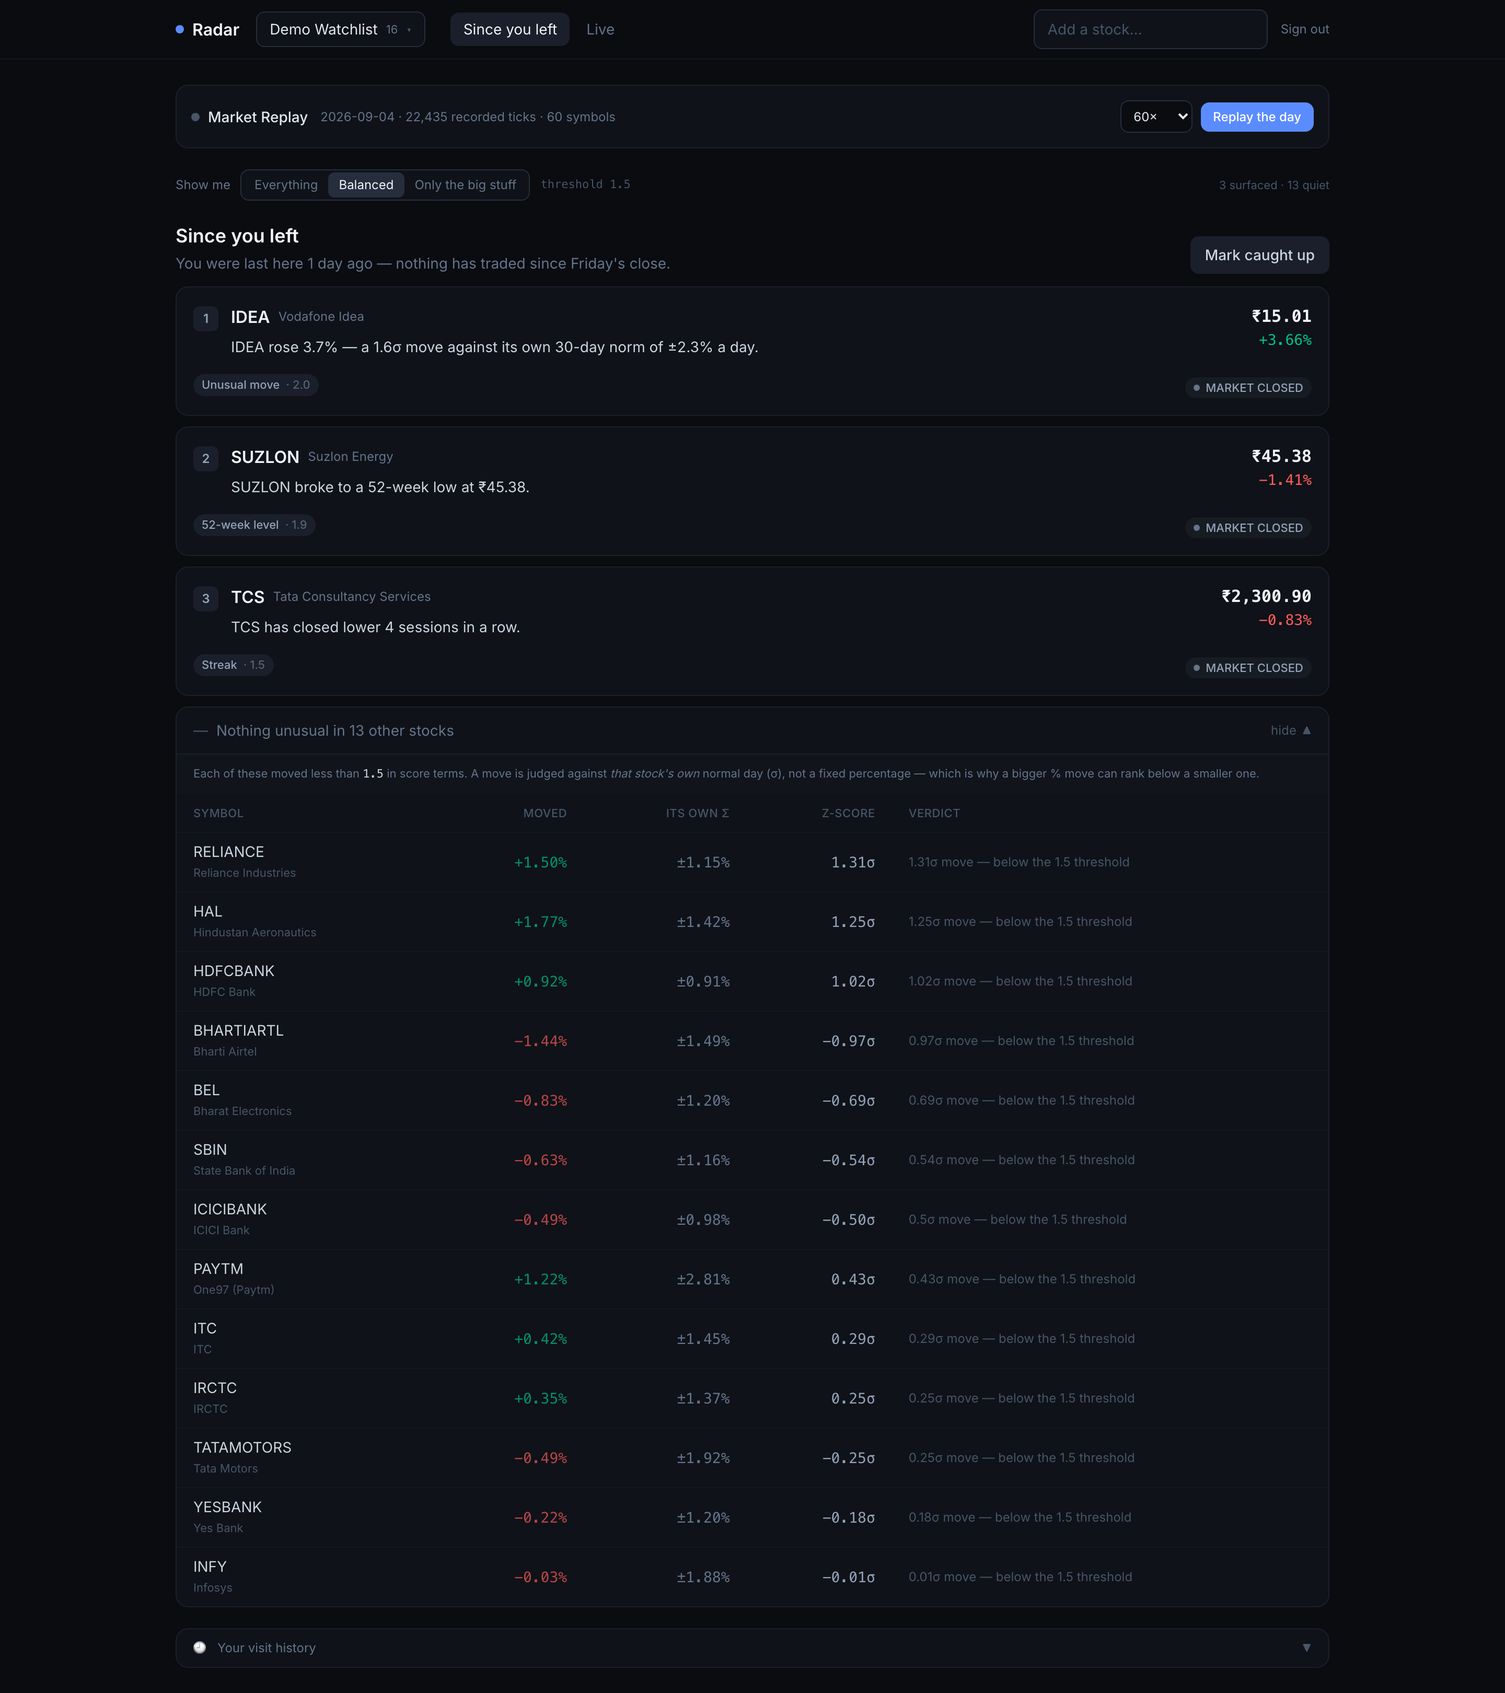
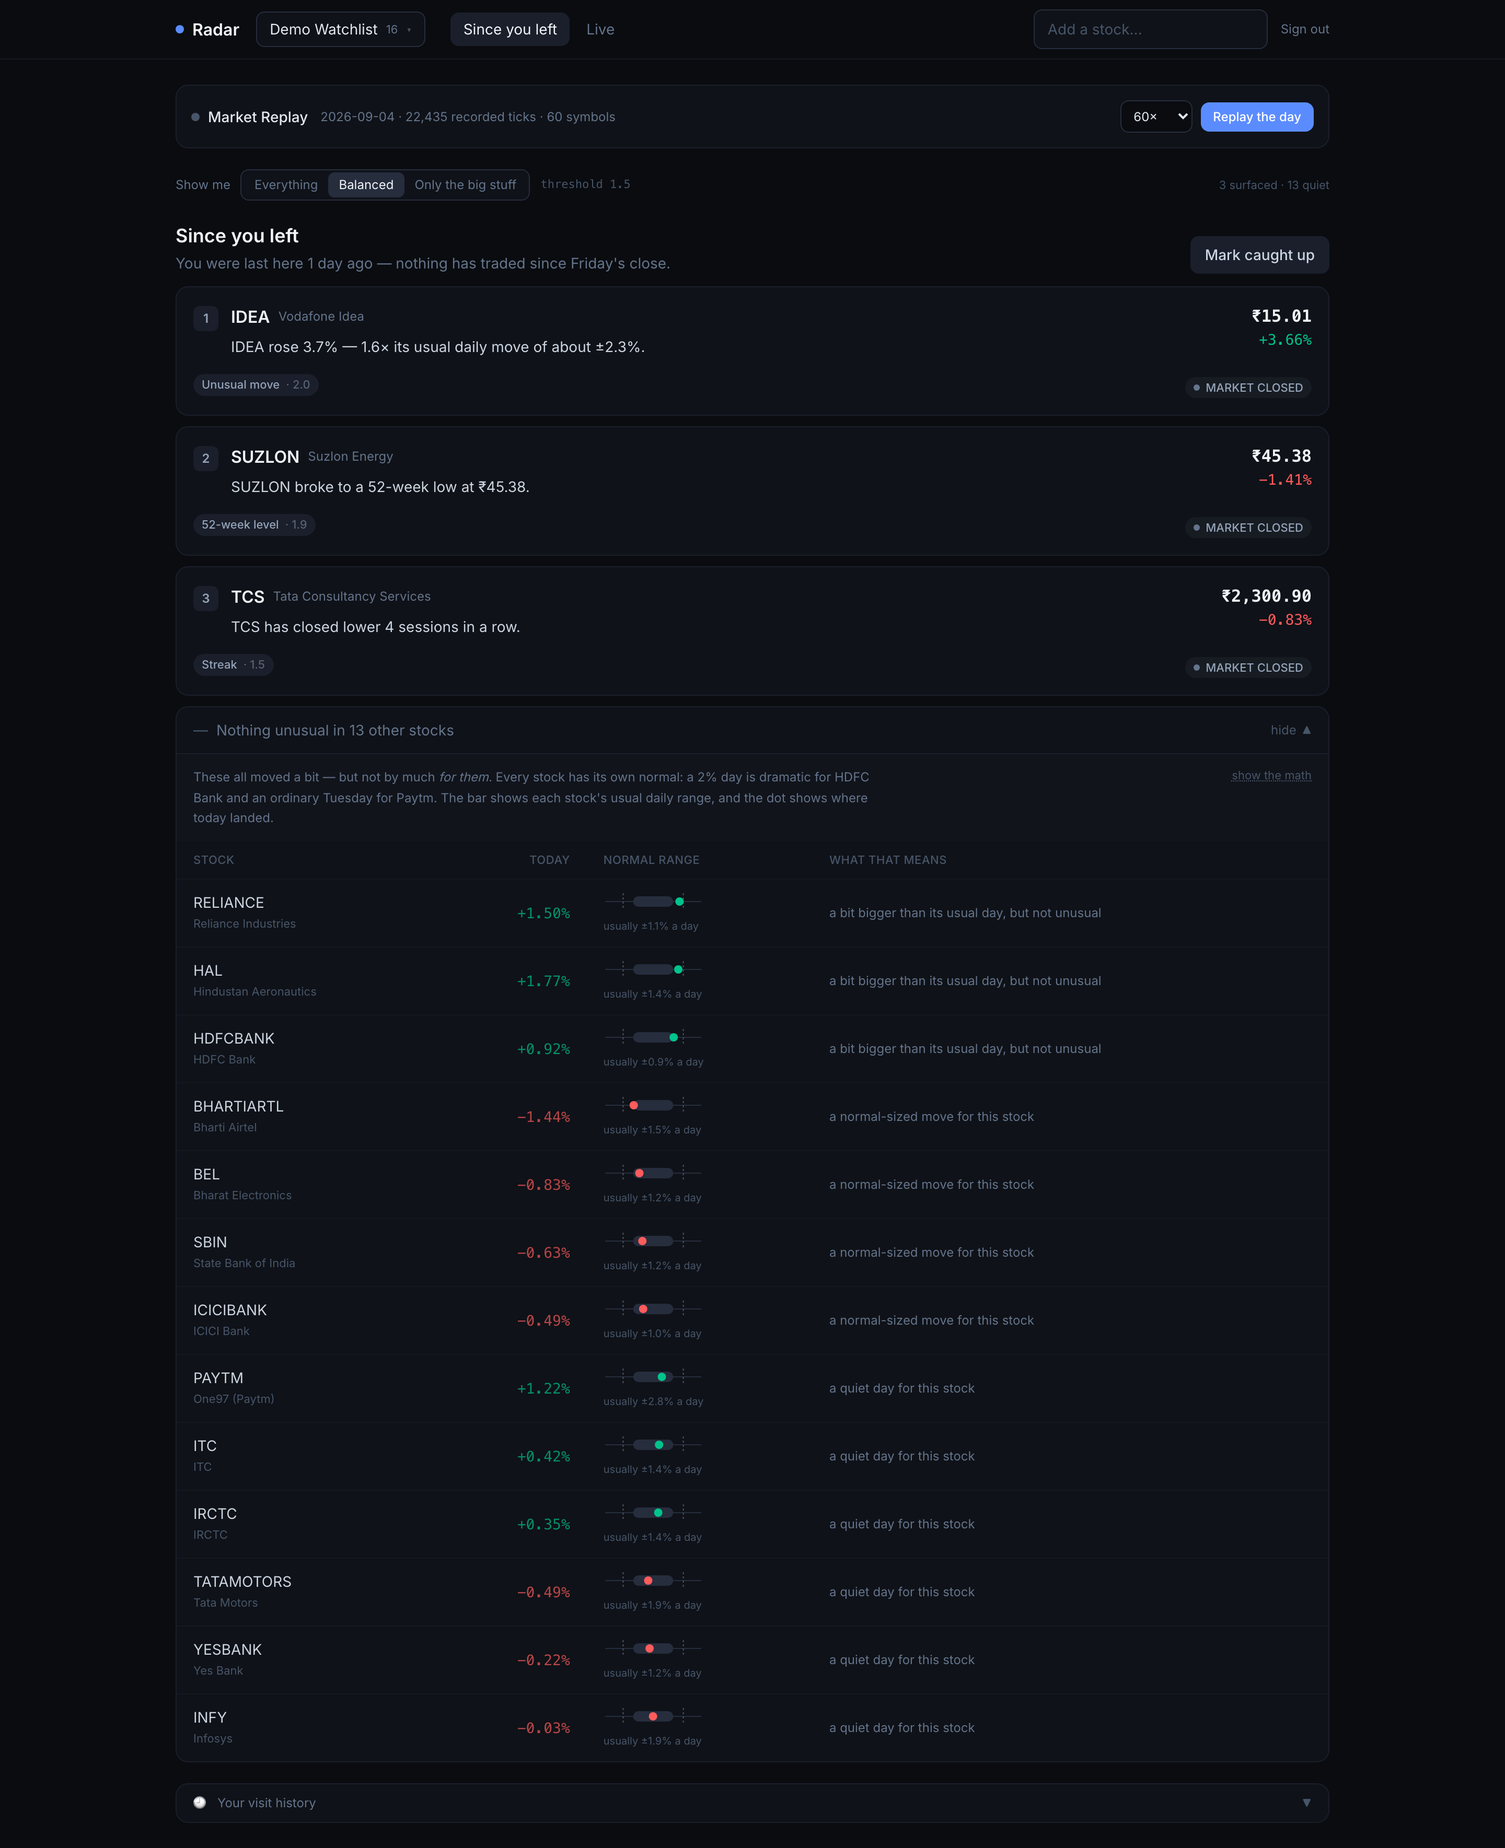
Speak human: plain-English explanations, math behind a toggle
A user pointed out that z-scores and sigma are meaningless to a retail
investor — an explanation needing a stats background is just another
black box.

- Rewrite all user-facing copy: '1.6x its usual daily move' not '1.6 sigma'
- Quiet panel: plain verdicts + a visual gauge of each stock's normal range
- Technical view (sigma, z) moved behind a 'show the math' toggle
- Test asserts explanations contain no statistics jargon

diff --git a/apps/web/src/components/QuietPanel.tsx b/apps/web/src/components/QuietPanel.tsx
@@ -1,22 +1,22 @@
 import { useState } from 'react';
 import type { QuietDetail } from '../api';
 import { shortSymbol, pct } from '../format';
+import { NormalityGauge } from './NormalityGauge';
 
 /**
- * The negative case, made auditable.
+ * The negative case, in plain language.
  *
- * Every watchlist can claim "nothing important happened". Almost none can show you the
- * arithmetic behind that claim. Expanding this row reveals, for each quiet stock, how far
- * it actually moved, what its own normal day looks like, and the resulting z-score — so
- * "quiet" is a checkable statement rather than something you take on trust.
- *
- * It is also the clearest possible explanation of the product's core idea: read the σ
- * column and you can see why a 2% mover was ignored while a 1.3% mover was surfaced.
+ * Any watchlist can claim "nothing important happened". Almost none can show you why.
+ * This does — but it must do so in words a retail investor actually uses. The default
+ * view is a sentence and a picture; the statistics sit behind "show the math" for anyone
+ * who wants to check the working (and for the reviewer who asks how the ranking is
+ * computed). Leading with sigma would be precise and useless.
  */
 export function QuietPanel({ count, detail, sensitivity }: {
   count: number; detail: QuietDetail[]; sensitivity: number;
 }) {
   const [open, setOpen] = useState(false);
+  const [math, setMath] = useState(false);
   if (count === 0) return null;
 
   return (
@@ -34,42 +34,68 @@ export function QuietPanel({ count, detail, sensitivity }: {
 
       {open && (
         <div className="border-t border-ink-800">
-          <div className="px-4 py-2.5 text-[11px] text-slate-500 bg-ink-850/40">
-            Each of these moved less than <span className="text-slate-300 num">{sensitivity}</span> in
-            score terms. A move is judged against <em>that stock's own</em> normal day (σ), not a
-            fixed percentage — which is why a bigger % move can rank below a smaller one.
+          <div className="px-4 py-3 flex items-start justify-between gap-4 bg-ink-850/40">
+            <p className="text-xs text-slate-500 leading-relaxed max-w-2xl">
+              These all moved a bit — but not by much <em>for them</em>. Every stock has its own
+              normal: a 2% day is dramatic for HDFC Bank and an ordinary Tuesday for Paytm. The bar
+              shows each stock's usual daily range, and the dot shows where today landed.
+            </p>
+            <button onClick={() => setMath(!math)}
+              className="shrink-0 text-[11px] text-slate-600 hover:text-slate-400 underline decoration-dotted">
+              {math ? 'hide the math' : 'show the math'}
+            </button>
           </div>
+
           <table className="w-full text-sm">
             <thead>
               <tr className="text-[11px] uppercase tracking-wide text-slate-600 border-b border-ink-850">
-                <th className="text-left px-4 py-2 font-medium">Symbol</th>
-                <th className="text-right px-4 py-2 font-medium">Moved</th>
-                <th className="text-right px-4 py-2 font-medium">Its own σ</th>
-                <th className="text-right px-4 py-2 font-medium">z-score</th>
-                <th className="text-left px-4 py-2 font-medium hidden md:table-cell">Verdict</th>
+                <th className="text-left px-4 py-2 font-medium">Stock</th>
+                <th className="text-right px-4 py-2 font-medium">Today</th>
+                <th className="text-left px-4 py-2 font-medium">Normal range</th>
+                <th className="text-left px-4 py-2 font-medium">What that means</th>
+                {math && <>
+                  <th className="text-right px-3 py-2 font-medium">σ/day</th>
+                  <th className="text-right px-4 py-2 font-medium">z</th>
+                </>}
               </tr>
             </thead>
             <tbody>
               {detail.map((d) => (
                 <tr key={d.symbol} className="border-b border-ink-850 last:border-0">
-                  <td className="px-4 py-2">
+                  <td className="px-4 py-2.5">
                     <span className="text-slate-300">{shortSymbol(d.symbol)}</span>
-                    <span className="block text-[11px] text-slate-600 truncate max-w-[160px]">{d.name}</span>
+                    <span className="block text-[11px] text-slate-600 truncate max-w-[150px]">{d.name}</span>
                   </td>
-                  <td className={`px-4 py-2 text-right num ${(d.changePct ?? 0) >= 0 ? 'text-up/70' : 'text-down/70'}`}>
+                  <td className={`px-4 py-2.5 text-right num ${(d.changePct ?? 0) >= 0 ? 'text-up/70' : 'text-down/70'}`}>
                     {pct(d.changePct)}
                   </td>
-                  <td className="px-4 py-2 text-right num text-slate-500">
-                    {d.sigmaPct === null ? '—' : `±${d.sigmaPct.toFixed(2)}%`}
+                  <td className="px-4 py-2.5">
+                    <NormalityGauge z={d.z} sensitivity={sensitivity} />
+                    <span className="block text-[10px] text-slate-600 mt-0.5">
+                      {d.sigmaPct === null ? 'unknown' : `usually ±${d.sigmaPct.toFixed(1)}% a day`}
+                    </span>
                   </td>
-                  <td className="px-4 py-2 text-right num text-slate-400">
-                    {d.z === null ? '—' : `${d.z.toFixed(2)}σ`}
-                  </td>
-                  <td className="px-4 py-2 text-xs text-slate-600 hidden md:table-cell">{d.reason}</td>
+                  <td className="px-4 py-2.5 text-xs text-slate-500">{d.reason}</td>
+                  {math && <>
+                    <td className="px-3 py-2.5 text-right num text-slate-600 text-xs">
+                      {d.sigmaPct === null ? '—' : `${d.sigmaPct.toFixed(2)}%`}
+                    </td>
+                    <td className="px-4 py-2.5 text-right num text-slate-500 text-xs">
+                      {d.z === null ? '—' : `${d.z.toFixed(2)}σ`}
+                    </td>
+                  </>}
                 </tr>
               ))}
             </tbody>
           </table>
+
+          {math && (
+            <p className="px-4 py-2.5 text-[11px] text-slate-600 border-t border-ink-850">
+              σ is the stock's own 30-day daily-return standard deviation; z is today's move
+              divided by it. A stock surfaces at |z| ≥ {sensitivity}. This is what the plain-English
+              column above is describing.
+            </p>
+          )}
         </div>
       )}
     </div>

diff --git a/apps/web/src/components/NormalityGauge.tsx b/apps/web/src/components/NormalityGauge.tsx
@@ -1,0 +1,44 @@
+/**
+ * "How big is this move, for THIS stock?" — as a picture rather than a number.
+ *
+ * A shaded band shows the stock's ordinary daily range; a marker shows today. If the
+ * marker sits inside the band, today was normal. If it crosses the dashed line, it was
+ * unusual enough to surface. That reading requires no statistics — which is the point,
+ * because "1.31σ" communicates nothing to someone who just wants to know if their stock
+ * did something worth looking at.
+ */
+export function NormalityGauge({ z, sensitivity = 1.5, width = 96, height = 22 }: {
+  z: number | null; sensitivity?: number; width?: number; height?: number;
+}) {
+  if (z === null) {
+    return <div className="text-[11px] text-slate-600" style={{ width }}>—</div>;
+  }
+
+  // Show +/- 2.5x usual; anything beyond is pinned to the edge.
+  const MAX = 2.5;
+  const mid = width / 2;
+  const clamped = Math.max(-MAX, Math.min(MAX, z));
+  const x = mid + (clamped / MAX) * mid;
+
+  const bandHalf = (1 / MAX) * mid;           // +/- 1 usual day
+  const lineOffset = (sensitivity / MAX) * mid; // the surfacing threshold
+  const crossed = Math.abs(z) >= sensitivity;
+  const cy = height / 2;
+
+  return (
+    <svg width={width} height={height} aria-label={`${Math.abs(z).toFixed(1)} times its usual daily move`}>
+      {/* the stock's ordinary range */}
+      <rect x={mid - bandHalf} y={cy - 5} width={bandHalf * 2} height={10} rx={5} className="fill-ink-700" />
+      {/* baseline */}
+      <line x1={2} y1={cy} x2={width - 2} y2={cy} className="stroke-ink-700" strokeWidth={1} />
+      {/* thresholds */}
+      {[mid - lineOffset, mid + lineOffset].map((lx, i) => (
+        <line key={i} x1={lx} y1={cy - 8} x2={lx} y2={cy + 8}
+              className="stroke-slate-600" strokeWidth={1} strokeDasharray="2 2" />
+      ))}
+      {/* today */}
+      <circle cx={x} cy={cy} r={4}
+              className={crossed ? 'fill-accent' : z >= 0 ? 'fill-up' : 'fill-down'} />
+    </svg>
+  );
+}

diff --git a/apps/server/src/digest/build.ts b/apps/server/src/digest/build.ts
@@ -134,11 +134,13 @@ export function buildDigest(opts: {
         changePct: change === null ? null : round2(change * 100),
         sigmaPct: sigma === null ? null : round2(sigma * 100),
         z: z === null ? null : round2(z),
+        // Plain-English verdict. The z-score stays in the payload for anyone who wants
+        // it, but the sentence a user reads must not require a statistics background.
         reason: sigma === null
-          ? 'not enough price history to judge this stock yet'
+          ? "we don't have enough history for this stock yet"
           : z === null
-            ? 'no baseline price to compare against'
-            : `${Math.abs(round2(z))}σ move — below the ${sensitivity} threshold`,
+            ? 'no earlier price to compare against'
+            : plainVerdict(z),
       });
       continue;
     }
@@ -209,6 +211,22 @@ export function sinceLabel(takenAt: number | null, now: number): string {
   return closed
     ? `${days} day${days === 1 ? '' : 's'} ago — nothing has traded since Friday's close`
     : `${days} day${days === 1 ? '' : 's'} ago`;
+}
+
+/**
+ * Turn a z-score into something a person can act on.
+ *
+ * "1.31σ, below the 1.5 threshold" is precise and useless to a retail investor. What they
+ * want to know is whether this is a normal day for this stock. The bands are wide on
+ * purpose — the exact number is available for anyone who asks for it, but the default
+ * reading should be a judgement, not a measurement.
+ */
+export function plainVerdict(z: number): string {
+  const a = Math.abs(z);
+  if (a < 0.5) return 'a quiet day for this stock';
+  if (a < 1.0) return 'a normal-sized move for this stock';
+  if (a < 1.5) return 'a bit bigger than its usual day, but not unusual';
+  return 'close to unusual, just under the line';
 }
 
 const round2 = (n: number): number => Math.round(n * 100) / 100;

diff --git a/apps/server/src/significance/detectors.ts b/apps/server/src/significance/detectors.ts
@@ -58,9 +58,12 @@ export function detectVolatilityMove(ctx: SymbolContext): DetectedEvent | null {
       baseline: ctx.checkpointPrice ? 'checkpoint' : 'previous close',
     },
     dedupKey: `${ctx.symbol}:VOLATILITY_MOVE:${ctx.sessionDate}:${Math.abs(z).toFixed(1)}`,
+    // Plain English first. A z-score of 1.6 simply means "1.6x its usual daily move",
+    // which needs no statistics background. The sigma itself stays in `detail` for
+    // anyone who wants to audit the arithmetic.
     explanation:
-      `${short(ctx.symbol)} ${dir(changePct)} ${Math.abs(r1(changePct))}% — a ${Math.abs(r1(z))}σ move ` +
-      `against its own 30-day norm of ±${r1(sigma * 100)}% a day.`,
+      `${short(ctx.symbol)} ${dir(changePct)} ${Math.abs(r1(changePct))}% — ` +
+      `${Math.abs(r1(z))}× its usual daily move of about ±${r1(sigma * 100)}%.`,
   };
 }
 
@@ -81,7 +84,7 @@ export function detectVolumeSpike(ctx: SymbolContext): DetectedEvent | null {
     occurredAt: ctx.asOf,
     detail: { ratio: r2(ratio), volume: ctx.volume, avgVolume: Math.round(avg) },
     dedupKey: `${ctx.symbol}:VOLUME_SPIKE:${ctx.sessionDate}`,
-    explanation: `${short(ctx.symbol)} traded ${r1(ratio)}× its 20-day average volume.`,
+    explanation: `${short(ctx.symbol)} traded ${r1(ratio)}× as many shares as it normally does.`,
   };
 }
 
@@ -135,7 +138,7 @@ export function detectGapOpen(ctx: SymbolContext): DetectedEvent | null {
     dedupKey: `${ctx.symbol}:GAP_OPEN:${ctx.sessionDate}`,
     explanation:
       `${short(ctx.symbol)} opened ${gapPct >= 0 ? 'up' : 'down'} ${Math.abs(r1(gapPct))}% ` +
-      `from the previous close — a ${Math.abs(r1(z))}σ gap.`,
+      `from where it closed — ${Math.abs(r1(z))}× its usual daily move.`,
   };
 }
 

diff --git a/apps/server/src/significance/detectors.test.ts b/apps/server/src/significance/detectors.test.ts
@@ -39,7 +39,9 @@ describe('VOLATILITY_MOVE', () => {
     expect(e!.type).toBe('VOLATILITY_MOVE');
     expect(Math.abs(e!.magnitude)).toBeGreaterThanOrEqual(THRESHOLDS.volatilityZ);
     expect(e!.explanation).toMatch(/rose 5%/);
-    expect(e!.explanation).toMatch(/σ move/);
+    expect(e!.explanation).toMatch(/its usual daily move/);
+    // No statistics jargon in user-facing copy — sigma lives in `detail`, not the sentence.
+    expect(e!.explanation).not.toMatch(/σ|z-score|standard deviation/);
   });
 
   it('THE THESIS: an identical % move fires for a calm stock and not for a wild one', () => {
@@ -91,7 +93,7 @@ describe('VOLUME_SPIKE', () => {
     const e = detectVolumeSpike(ctx({ bars: bars(Array(25).fill(100), Array(25).fill(1000)), volume: 3000 }));
     expect(e).not.toBeNull();
     expect(e!.magnitude).toBeCloseTo(3, 5);
-    expect(e!.explanation).toMatch(/3×/);
+    expect(e!.explanation).toMatch(/3× as many shares/);
   });
 
   it('does not fire just below the threshold', () => {

diff --git a/apps/server/src/digest/build.test.ts b/apps/server/src/digest/build.test.ts
@@ -101,7 +101,7 @@ describe('buildDigest', () => {
     const d = buildDigest({ userId: USER, watchlistId: WL, now: NOW });
     expect(d.isQuiet).toBe(false);
     expect(d.cards[0]!.symbol).toBe('MOVER.NS');
-    expect(d.cards[0]!.headline).toMatch(/σ/);
+    expect(d.cards[0]!.headline).toMatch(/its usual daily move/);
     expect(d.cards[0]!.headline).toMatch(/6%/);
     expect(d.quietSymbols).toContain('CALM.NS');   // the quiet one is still accounted for
   });

diff --git a/README.md b/README.md
@@ -130,17 +130,25 @@ Three things follow from taking "explainable" seriously:
 
 ![Why each quiet stock stayed quiet](docs/why-silent.png)
 
-*Expanding "Nothing unusual" shows the arithmetic. Read the **Moved** column against the
-**z-score** column: **PAYTM moved −1.68%, the largest move on the list, and ranks last at
-−0.60σ**, while BEL's smaller −1.38% is −1.14σ. A percentage-sorted watchlist gets this
-exactly backwards.*
+*Expanding "Nothing unusual" explains the silence in plain language. Compare two rows:
+**PAYTM moved +1.22% and reads "a quiet day for this stock"**, while **HDFCBANK moved less at
++0.92% and reads "a bit bigger than its usual day"** — because Paytm normally swings ±2.8% and
+HDFC Bank ±0.9%. The bar shows each stock's ordinary range; the dot shows where today landed.
+No statistics required — and "show the math" reveals the σ and z columns for anyone who wants
+to check the working.*
 
 ### Two rules the whole product hangs on
 
 **Every surfaced event must explain itself in plain English, with its numbers.**
 No unexplained badges, no black-box "AI score":
 
-> *"IDEA rose 3.9% — a 1.7σ move against its own 30-day norm of ±2.3% a day."*
+> *"IDEA rose 3.7% — 1.6× its usual daily move of about ±2.3%."*
+
+Note what that sentence does **not** say. There is no σ, no z-score, no "standard deviation" —
+because a retail investor should not need a statistics background to read their own watchlist.
+A z-score of 1.6 just means *1.6× a normal day*, so that is what we write. The underlying
+numbers stay one click away under "show the math", and in the API payload, for anyone auditing
+the ranking.
 
 **A detector that cannot be confident stays silent.** Fewer than 6 daily bars, zero variance, a
 suspended stock — every detector returns `null` rather than a fabricated number. A made-up

diff --git a/DECISIONS.md b/DECISIONS.md
@@ -424,3 +424,20 @@ digest was still valid by wall-clock TTL. The API was correct the whole time; on
 looked broken, which is worse, because that is what a judge sees. A 30s TTL is right for a
 returning user hammering refresh and wrong when the underlying market changes many times a
 second. The cache is now opt-out for the one caller that genuinely needs live recomputation.
+
+---
+
+### D35 — 2026-09-04 · Say what it means, not what it measures
+**Chose:** all user-facing copy is plain English. "1.6× its usual daily move" instead of
+"a 1.6σ move"; "a quiet day for this stock" instead of "1.31σ — below the 1.5 threshold".
+The σ and z columns are one click away behind **show the math**, and remain in the API payload.
+**Rejected:** surfacing z-scores and σ directly, which is what the first version shipped.
+**Why:** a user pointed at the quiet panel and said, correctly, that nobody outside finance
+knows what a z-score is. They were right, and it undercut the product's central claim: an
+explanation that requires a statistics background is not an explanation, it is a different
+kind of black box. The fix is not to dumb the engine down — the maths is unchanged — but to
+translate at the boundary. A z-score of 1.6 *means* "1.6× a normal day", so we write that.
+**Kept deliberately:** the technical view, because the rigour is a real asset when someone
+asks how the ranking works. Two audiences, one number, progressive disclosure.
+**Test enforces it:** detector explanations now assert they contain no `σ`, `z-score`, or
+"standard deviation" — jargon cannot silently creep back into user-facing copy.
